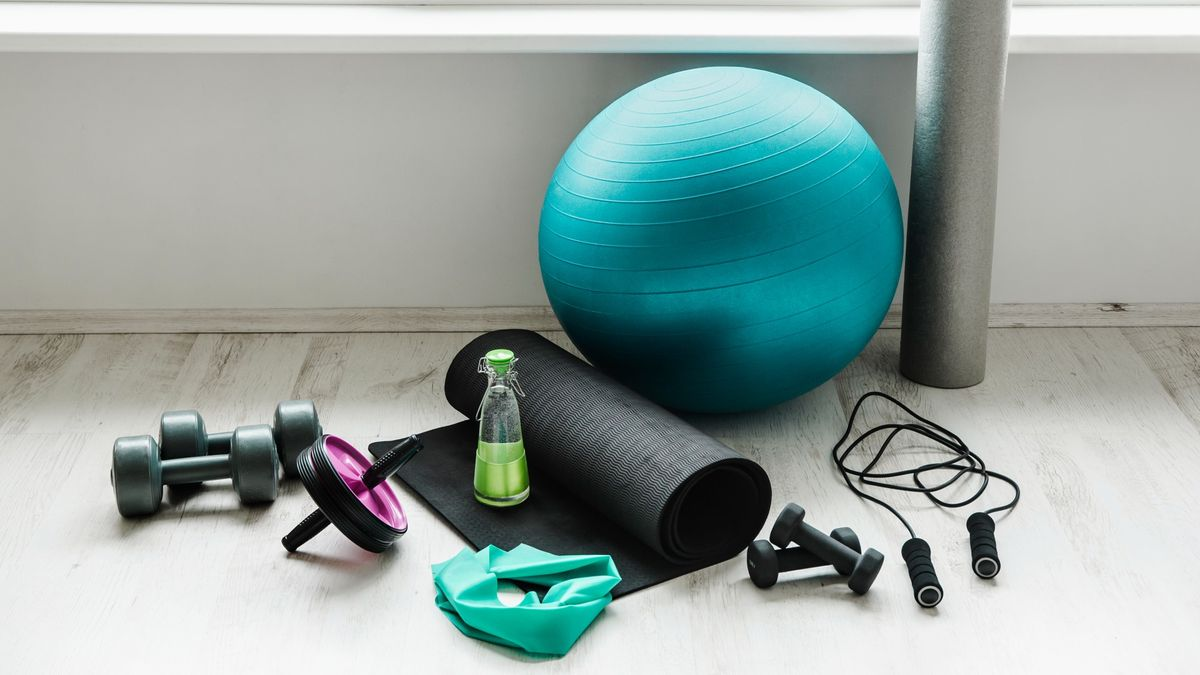
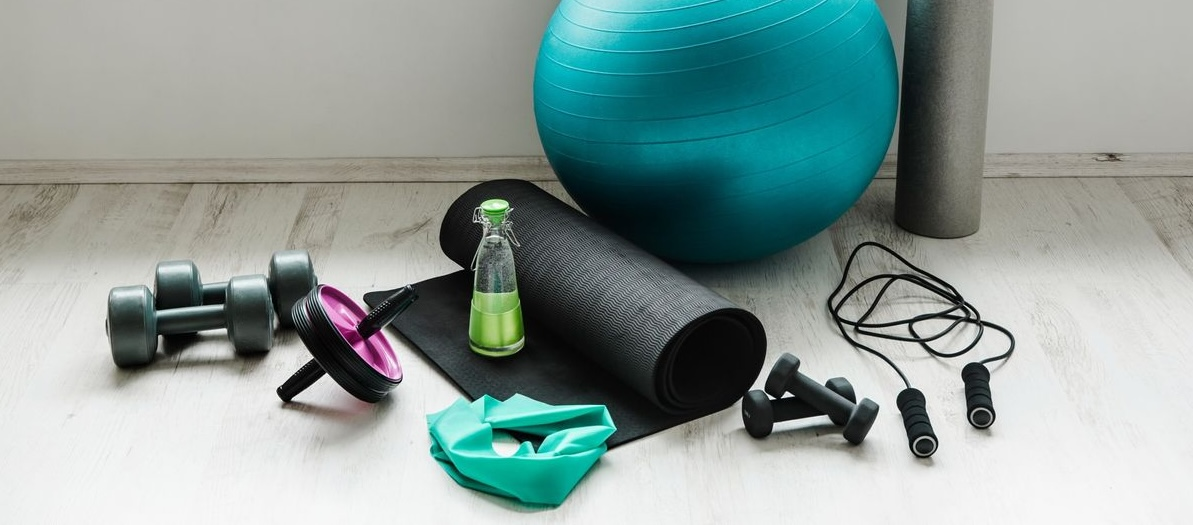
Updated index.html & css

diff --git a/src/styles.css b/src/styles.css
@@ -6,12 +6,13 @@ body {
 }
 
 .container {
-  width: 80%;
+  width: 90%;
   height: 100%;
   margin: 0 auto;
 }
 
 header {
+  display: block;
   background-image: url("https://cdn.mos.cms.futurecdn.net/gxWm3asdF6AAe2rR9ziao8-1200-80.jpg");
   background-size: cover;
   margin: 0 auto;
@@ -35,6 +36,7 @@ h5 {
 h3 {
   color: black;
   text-align: center;
+  font-size: 14px;
 }
 
 div .SeeExercises {
@@ -62,6 +64,15 @@ div .inner-container {
   margin: 5px;
   padding: 10px;
   opacity: 1 !important;
+}
+
+.content-section {
+  display: grid;
+  grid-template-columns: 1fr 1fr;
+}
+
+.content-section img {
+  width: 75%;
 }
 
 footer {

diff --git a/index.html b/index.html
@@ -22,6 +22,12 @@
     </div>
     </header>
     </div>
+    <div class="content-section">
+            <img src="/src/images/ab-roller.jpeg" alt="man performing ab roller exercise">
+            <img src="/src/images/jump-rope.jpg" alt="woman jumping rope">
+            <img src="/src/images/yoga.jpg" alt="yoga class">
+            <img src="/src/images/exercise-ball.jpeg" alt="woman posed for exercise ball chest press">
+    </div>
     <footer>
     <div>
         <div class="inner-container">
